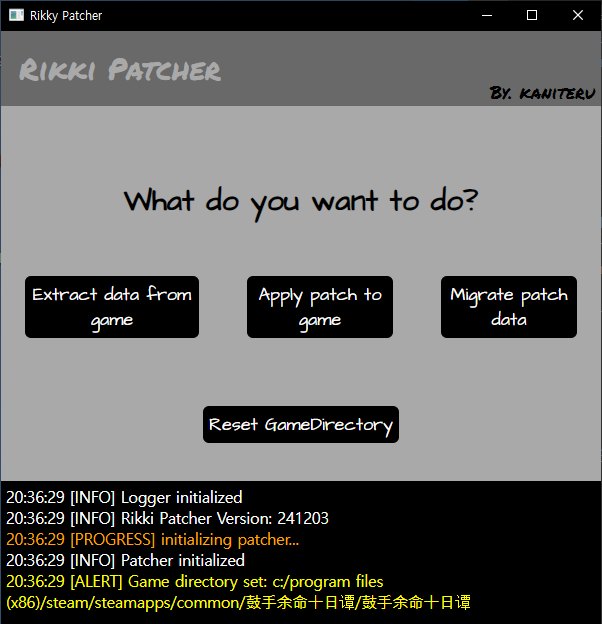
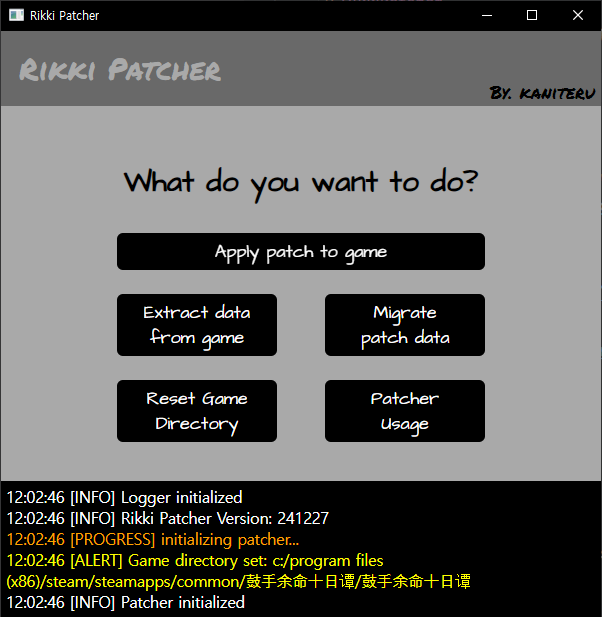
updated

diff --git a/res/index.html b/res/index.html
@@ -31,14 +31,19 @@
     <div id="div-ctrl-options" class="div-ctrl">
         <div id="div-ctrl-options-center">
             <div><p id="p-ctrl-options-desc" class="p-ctrl-desc">What do you want to do?</p></div>
-            <div id="div-ctrl-options-center-bt">
-                <button id="bt-ctrl-options-extract" class="bt-ctrl">Extract data from game</button>
+            <div id="div-ctrl-options-top-bt">
                 <button id="bt-ctrl-options-apply" class="bt-ctrl">Apply patch to game</button>
-                <button id="bt-ctrl-options-migrate" class="bt-ctrl">Migrate patch data</button>
+            </div>
+            <div id="div-ctrl-options-center-bt">
+                <button id="bt-ctrl-options-extract" class="bt-ctrl bt-ctrl-resize">Extract data from game</button>
+                <button id="bt-ctrl-options-migrate" class="bt-ctrl bt-ctrl-resize">Migrate<br>patch data</button>
             </div>
         </div>
         <div id="div-ctrl-options-footer">
-            <button id="bt-ctrl-options-setting" class="bt-ctrl">Reset GameDirectory</button>
+            <div id="div-ctrl-options-footer-bt">
+                <button id="bt-ctrl-options-setting" class="bt-ctrl bt-ctrl-resize">Reset Game Directory</button>
+                <button id="bt-ctrl-options-usage" class="bt-ctrl bt-ctrl-resize">Patcher<br>&nbsp;&nbsp;&nbsp;&nbsp;Usage&nbsp;&nbsp;&nbsp;&nbsp;</button>
+            </div>
         </div>
     </div>
 

diff --git a/res/styles/control.css b/res/styles/control.css
@@ -67,6 +67,19 @@
     align-items: center;
 }
 
+#div-ctrl-options-top-bt {
+    width: 88.5%;
+}
+
+#bt-ctrl-options-apply {
+    width: 100%;
+    animation: bounce 2s infinite;
+}
+#bt-ctrl-options-apply:hover {
+    background-color: orangered;
+    animation: none;
+}
+
 #div-ctrl-options-center {
     flex: 80%;
 
@@ -83,7 +96,8 @@
     justify-content: space-between;
 }
 #div-ctrl-options-center-bt > button {
-    margin: 4vmin;
+    width: 100%;
+    margin: 4vmin 4vmin 0;
 }
 
 #bt-ctrl-setting {
@@ -95,6 +109,27 @@
 
 #div-ctrl-options-footer {
     flex: 20%;
+
+    display: flex;
+    flex-direction: column;
+    align-items: center;
+    justify-content: center;
+}
+
+#div-ctrl-options-footer-bt {
+    display: flex;
+    align-items: baseline;
+    align-content: center;
+    justify-content: space-between;
+}
+#div-ctrl-options-footer-bt > button {
+    width: 100%;
+    margin: 0 4vmin 6.5vmin;
+}
+
+#bt-ctrl-options-setting:hover,
+#bt-ctrl-options-usage:hover {
+    background-color: darkgreen;
 }
 
 #div-ctrl-patch {
@@ -166,5 +201,17 @@
     }
     50% {
         transform: scale(1) rotate(180deg);
+    }
+}
+
+@keyframes bounce {
+    0%, 20%, 50%, 80%, 100% {
+        transform: translateY(0);
+    }
+    40% {
+        transform: translateY(-0.5vmin);
+    }
+    60% {
+        transform: translateY(-0.35vmin);
     }
 }

diff --git a/res/scripts/control.js b/res/scripts/control.js
@@ -83,7 +83,7 @@ document.getElementById('bt-ctrl-options-apply').addEventListener('click', e => 
     const desc = document.getElementById('p-ctrl-patch-desc');
     desc.innerHTML = 'Apply patch to game';
     const alert = document.getElementById('p-ctrl-patch-alert');
-    alert.innerHTML = 'Backup your save data before patch.'
+    alert.innerHTML = 'Backup your save data before patch.';
     const start = document.getElementById('bt-ctrl-patch-start');
     start.innerHTML = 'Start Patch'
     start.disabled = true;
@@ -101,6 +101,9 @@ document.getElementById('bt-ctrl-options-migrate').addEventListener('click', e =
 });
 document.getElementById('bt-ctrl-options-setting').addEventListener('click', e => {
    Control.INSTANCE.move(eCtrlLv.CTRL_LV_GMDIR);
+});
+document.getElementById('bt-ctrl-options-usage').addEventListener('click', e => {
+    window.OPEN_PROJECT_WEB();
 });
 
 document.getElementById('bt-ctrl-patch-select-dir').addEventListener('click', e => {

diff --git a/res/scripts/index.js b/res/scripts/index.js
@@ -1,4 +1,4 @@
-const RIKKI_PATCHER_VER = 241211;
+const RIKKI_PATCHER_VER = 241228;
 
 function onLoad() {
     Logger.INSTANCE.log(eLogLv.LOG_LV_INFO, `Rikki Patcher Version: ${RIKKI_PATCHER_VER}`);
@@ -11,7 +11,6 @@ function onLoad() {
         Logger.INSTANCE.log(eLogLv.LOG_LV_DEBUG, 'Rikki Patcher running in web');
         Control.INSTANCE.move(eCtrlLv.CTRL_LV_PATCH);
     }
-
 }
 
 document.getElementById('h4-kani').addEventListener('click', ev => {

diff --git a/README.md b/README.md
@@ -1,19 +1,22 @@
-# RikkiPatcher
-A simple patch tool to modify the game '[鼓手余命十日谭 (Shiina Taki's Decameron)](https://store.steampowered.com/app/3269960)'
+# Rikki Patcher
+A simple patch tool to modify the game《[鼓手余命十日谭 (Shiina Taki's Decameron)](https://store.steampowered.com/app/3269960)》
 
 ![screenshot](img/patcher.png)
 
 ## Features
-- Extract and apply modified dialogue texts
+- Extract and apply modified dialogue, some ui texts
+- Apply custom data (like image)
+
+## Download
+[Download](https://kaniteru.github.io/project/rikkipatcher/index.html?section=download)
 
 ## Usage
-[Usage](https://kaniteru.github.io/project/RikkiPatcher/usage.html)
+[Usage](https://kaniteru.github.io/project/rikkipatcher/index.html?section=usage)
 
-[Download & Contribute Translation patches](https://github.com/kaniteru/RikkiPatcher-Patches)
+[Translation Patches Repo](https://github.com/kaniteru/RikkiPatcher-Patches)
 
 ## Todo
-- Extract and apply modified images (like button)
-- Support multiple languages on client
+- Support for multiple languages in the client
 - Improve 'Migrate patch data'
 
 ## Third-Party Software
